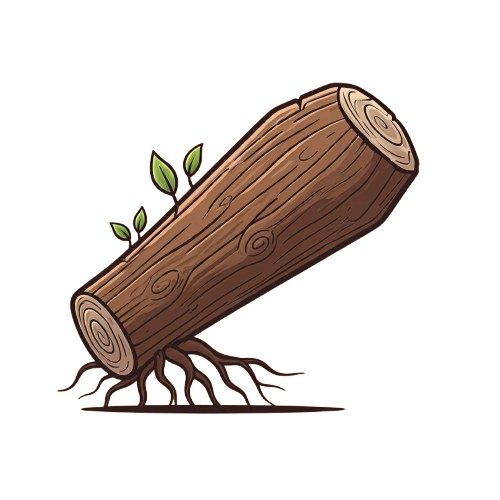
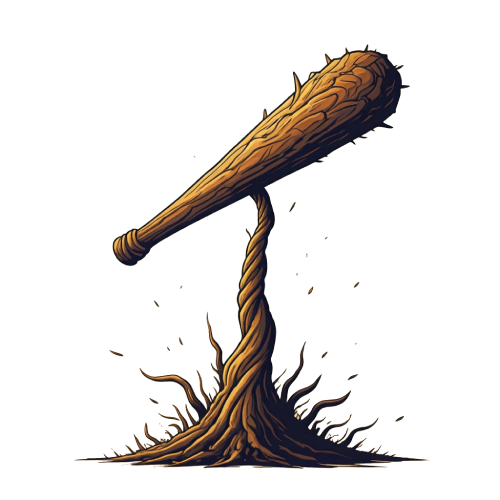
improve card look

diff --git a/src/content/cards/cards.ts b/src/content/cards/cards.ts
@@ -7,8 +7,10 @@ import phoenix from './images/phoenix.jpeg';
 import punch from './images/punch.png';
 import volcano from './images/volcano.jpeg';
 import cross from './images/cross.png';
-import log from './images/log.png';
 import growingClub from './images/growing-club.png';
+import treeFall from './images/tree-fall.png';
+import bless from './images/bless.jpeg';
+import forestPath from './images/forest-path.jpeg';
 
 import type { CardState } from '../../game/gameState';
 import { createCard, ifCompare, ifHas, value as v } from '../utils/createCard';
@@ -47,7 +49,7 @@ export const greenCards = {
   damagePerTurn: createCard(
     [
       {
-        value: v('self', 'turn', 2),
+        value: v('self', 'turn', 1),
       },
     ],
     {
@@ -59,17 +61,17 @@ export const greenCards = {
   largeDamage: createCard(
     [
       {
-        value: v(3),
-        multiply: {
-          value: v(2),
+        value: v(2),
+        add: {
+          value: v(5),
           if: ifCompare('self', 'percentGreen', '>=', 50),
         },
       },
     ],
     {
       name: 'Treefall',
-      description: `Deal 3 damage. Deal double damage if at least half your cards are green.`,
-      image: log,
+      description: `Deal $V damage. Deal $A extra damage if at least half your cards are green.`,
+      image: treeFall,
     },
   ),
 };

diff --git a/src/ui/components/Card/Card.tsx b/src/ui/components/Card/Card.tsx
@@ -50,10 +50,10 @@ const Title = styled('h2')`
 `;
 
 const Image = styled.img`
+  background: radial-gradient(white 0%, ${(props) => getCardColor(props.theme.color)} 80%);
   height: 55%;
   object-fit: cover;
   object-position: center;
-  border-bottom: solid 0.25em ${(props) => getBorderColor(props.theme.color)};
 `;
 
 const Text = styled.div`

diff --git a/src/game/constants.ts b/src/game/constants.ts
@@ -13,4 +13,4 @@ export const NUM_STARTING_CARDS = 3;
 // the player with the highest health wins after this many turns
 export const MAX_TURNS_IN_BATTLE = 40;
 
-export const STARTING_HEALTH = 20;
+export const STARTING_HEALTH = 30;
